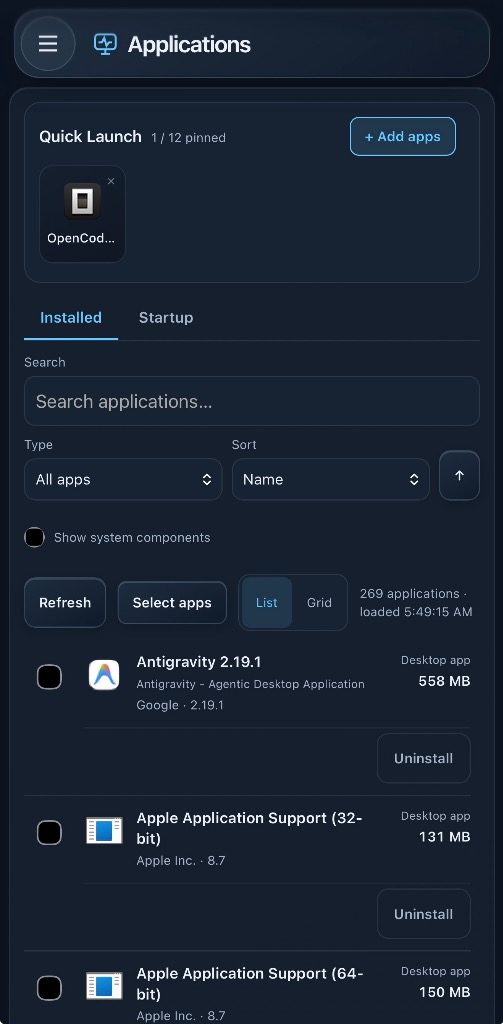
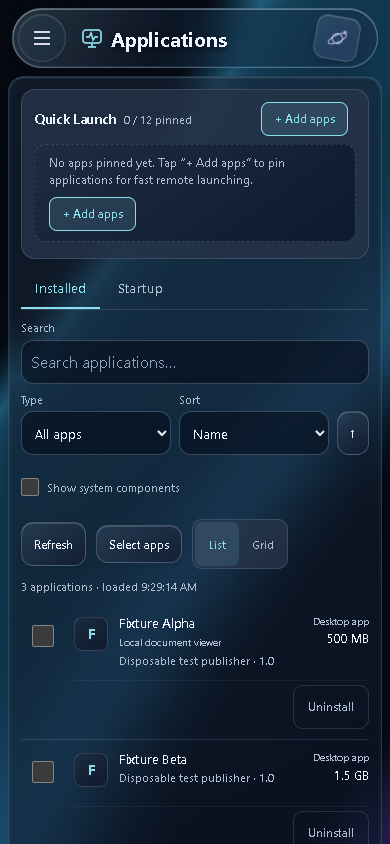
Update Liquid Glass desktop and mobile screenshots

diff --git a/README.md b/README.md
@@ -30,7 +30,7 @@ Rovarin is a Windows PC monitoring and system-management app. Check CPU, GPU, me
 ![Rovarin desktop Overview](docs/images/overview.png)
 
 
-<sub>v0.5.0 Liquid Glass, captured in the actual Windows desktop shell using isolated test state. Readings show total PC usage, not Rovarin's own resource usage; hardware and load vary by machine.</sub>
+<sub>Rovarin v0.5.0 — The Liquid Glass Update.</sub>
 
 
 ## v0.5.0 — The Liquid Glass Update
@@ -87,14 +87,14 @@ After confirmed removal, choose **Scan for leftovers** if wanted. Review the att
 
 Vendor uninstallers may require interaction or local Windows administrator approval. Removing an app can also remove its data; Rovarin follows the app's own supported uninstall mechanism.
 
-![Rovarin desktop Applications page with Quick Launch, filters, Grid view and Uninstall controls](docs/images/applications-desktop.png)
+![Rovarin Liquid Glass Applications Manager on desktop](docs/images/applications-desktop.png)
 
 <table>
-<tr><th>Pin apps from your phone</th><th>Browse and uninstall apps</th></tr>
-<tr><td align="center"><img src="docs/images/quick-launch-phone.png" width="230" alt="Phone Quick Launch picker with search and Add controls"></td><td align="center"><img src="docs/images/applications-phone.png" width="230" alt="Phone Applications page with Quick Launch, app search and Uninstall buttons"></td></tr>
+<tr><th>Mobile dashboard</th><th>Mobile Applications Manager</th></tr>
+<tr><td align="center"><img src="docs/images/dashboard-phone.png" width="230" alt="Rovarin Liquid Glass mobile dashboard"></td><td align="center"><img src="docs/images/applications-phone.png" width="230" alt="Rovarin Liquid Glass mobile Applications Manager"></td></tr>
 </table>
 
-<sub>Existing Rovarin website screenshots, reused here unchanged. Installed apps and available actions vary by PC.</sub>
+<sub>Rovarin v0.5.0 on desktop and mobile. Installed apps and available actions vary by PC.</sub>
 
 ## Install on Windows
 
